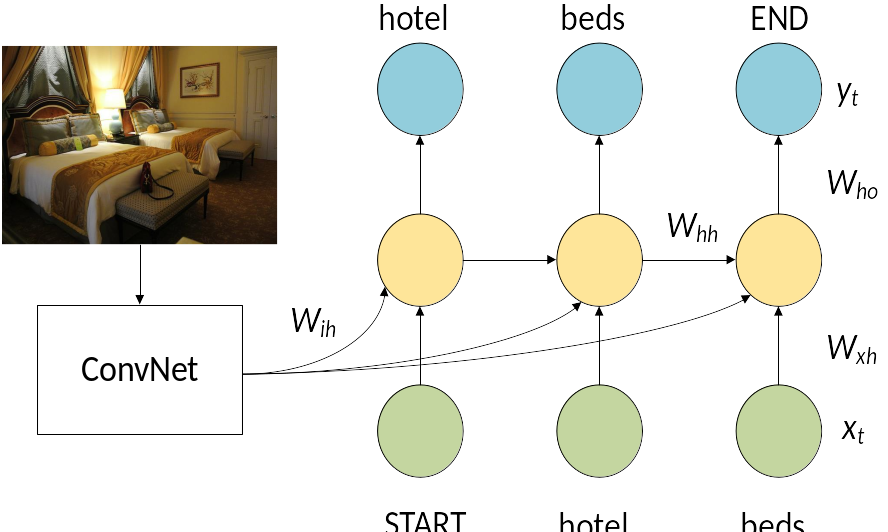
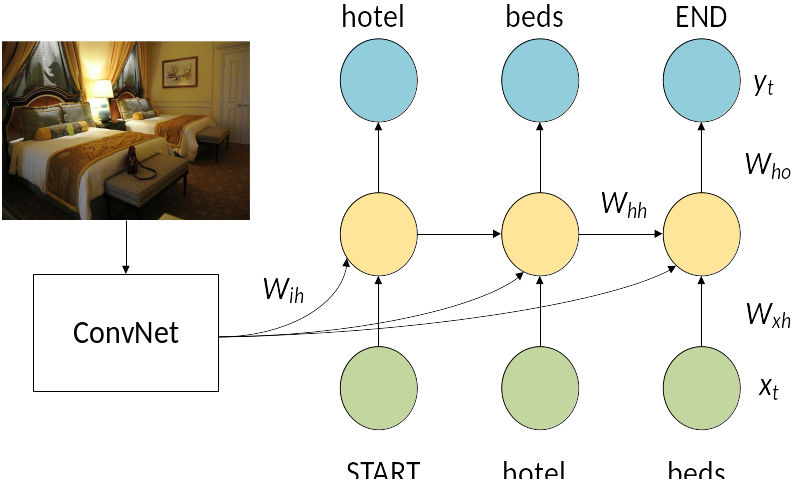
Resizing images again

diff --git a/README.md b/README.md
@@ -9,7 +9,7 @@ Our implementation is modeled after Vinyals\' et al. network presented in [(Viny
 In this model, a ConvNet is used to map images to a real vector, and the RNN is used to generate English language sentences conditioned on this image representation. 
 For this project we did not implement attention, so captions are generated using the image gestalt. A high level view of the architecture is given below. 
 
-![architecture](assets/architecture.png | width=800)
+![architecture](assets/architecture.png)
 
 The activations of the image are presented to the LSTM by concatenating them with the word representation and are parameterized by a set of weights. At each time step the next 
 word presented to the network is the predicted word from the previous time step. Caption generation starts with a special START token and terminates when a special END token is output by the network.
@@ -17,9 +17,9 @@ word presented to the network is the predicted word from the previous time step.
 ## Example Output
 The following are example captions generated for the given images with different softmax temperatures and different models tested.
 
-![tennis](assets/tennis.png | width=800)
+![tennis](assets/tennis.png)
 
-![cat](assets/cat.png | width=800)
+![cat](assets/cat.png)
 
 ## Setup
 - Make sure you are using python3 with all of the usual packages (numpy, matplotlib, scipy, etc)
